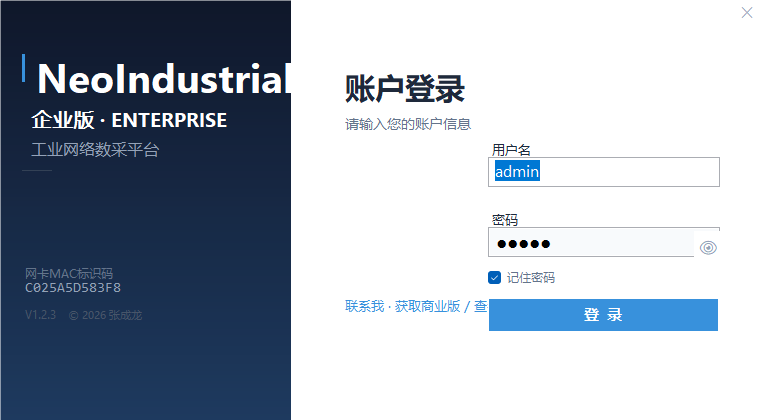
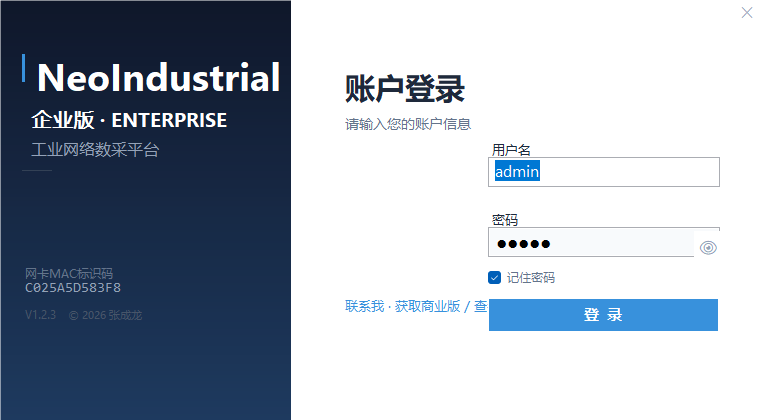
修复「联系我」页品牌名末位字母被裁 + 登录页品牌字号统一 28F；README 补联系我截图

Changed region(s): [[0.0312, 0.1238, 0.4057, 0.2476]]

diff --git a/IndustrialDataCollector/Forms/ContactForm.cs b/IndustrialDataCollector/Forms/ContactForm.cs
@@ -39,7 +39,6 @@ namespace IndustrialDataCollection.Forms
         private Panel panelRight;
         private Panel panelDecor;
         private Panel sepLine;
-        private Label lblBrand;
         private Label lblBrandSub;
         private Label lblSlogan;
         private Label lblVersion;
@@ -96,7 +95,7 @@ namespace IndustrialDataCollection.Forms
             panelLeft = new Panel
             {
                 Location = new Point(1, 1),
-                Size = new Size(280, 418),
+                Size = new Size(300, 418),
                 BackColor = Color.Transparent
             };
             panelLeft.GetType().GetMethod("SetStyle",
@@ -105,17 +104,6 @@ namespace IndustrialDataCollection.Forms
                     ControlStyles.SupportsTransparentBackColor | ControlStyles.UserPaint | ControlStyles.AllPaintingInWmPaint,
                     true });
             panelLeft.Paint += PanelLeft_Paint;
-
-            lblBrand = new Label
-            {
-                Text = "NeoIndustrial",
-                Font = new Font("Segoe UI", 30F, FontStyle.Bold),
-                ForeColor = CWhite,
-                BackColor = Color.Transparent,
-                Location = new Point(40, 52),
-                Size = new Size(220, 56),
-                TextAlign = ContentAlignment.MiddleLeft
-            };
 
             lblBrandSub = new Label
             {
@@ -178,8 +166,8 @@ namespace IndustrialDataCollection.Forms
             // === 右侧内容面板 ===
             panelRight = new Panel
             {
-                Location = new Point(281, 1),
-                Size = new Size(438, 418),
+                Location = new Point(301, 1),
+                Size = new Size(418, 418),
                 BackColor = CWhite
             };
 
@@ -189,7 +177,7 @@ namespace IndustrialDataCollection.Forms
                 Font = new Font("Segoe UI", 11F),
                 ForeColor = CCloseFore,
                 BackColor = Color.Transparent,
-                Location = new Point(403, 6),
+                Location = new Point(383, 6),
                 Size = new Size(28, 26),
                 TextAlign = ContentAlignment.MiddleCenter,
                 Cursor = Cursors.Hand
@@ -327,7 +315,6 @@ namespace IndustrialDataCollection.Forms
             btnOk.MouseLeave += (s, e) => btnOk.BackColor = CAccent;
 
             // === 组装 ===
-            panelLeft.Controls.Add(lblBrand);
             panelLeft.Controls.Add(lblBrandSub);
             panelLeft.Controls.Add(panelDecor);
             panelLeft.Controls.Add(sepLine);
@@ -385,6 +372,13 @@ namespace IndustrialDataCollection.Forms
             {
                 e.Graphics.SmoothingMode = SmoothingMode.HighQuality;
                 e.Graphics.FillRectangle(brush, panelLeft.ClientRectangle);
+
+                // 品牌名直接用 GDI+ 绘制（避免 Label 宽度不足裁掉末位字母）
+                e.Graphics.TextRenderingHint = System.Drawing.Text.TextRenderingHint.AntiAliasGridFit;
+                using (var bf = new Font("Segoe UI", 28F, FontStyle.Bold))
+                {
+                    e.Graphics.DrawString("NeoIndustrial", bf, Brushes.White, 40F, 51F);
+                }
             }
         }
 

diff --git a/IndustrialDataCollector/Forms/LoginForm.Designer.cs b/IndustrialDataCollector/Forms/LoginForm.Designer.cs
@@ -84,7 +84,7 @@ namespace IndustrialDataCollection.Forms
             // 
             this.lblAppName.AutoSize = true;
             this.lblAppName.BackColor = System.Drawing.Color.Transparent;
-            this.lblAppName.Font = new System.Drawing.Font("Segoe UI", 30F, System.Drawing.FontStyle.Bold);
+            this.lblAppName.Font = new System.Drawing.Font("Segoe UI", 28F, System.Drawing.FontStyle.Bold);
             this.lblAppName.ForeColor = System.Drawing.Color.White;
             this.lblAppName.Location = new System.Drawing.Point(27, 50);
             this.lblAppName.Name = "lblAppName";

diff --git a/README.en.md b/README.en.md
@@ -597,6 +597,8 @@ What the driver management page does:
 - **WEB Commercial Edition**: **no public download**. A license must be applied for directly from the author, priced by device/machine count.
 - **In-app shortcut**: in the desktop client, **Help → Contact Me** opens both repositories and lets you copy the licensing e-mail; the login screen also carries a “Contact Me · Get Commercial Edition” link.
 
+<img src="picture/联系我.png" width="70%" alt="Contact Me (repositories + licensing)">
+
 **To apply for a WEB Commercial Edition license, please state the following five items in your email or call:**
 
 1. **Use case** — which industry, which production line, and what problem you want to solve;

diff --git a/README.md b/README.md
@@ -623,6 +623,8 @@ GET /api/status                               # 系统状态
 - **WEB 商业版**：**不提供公开下载**，需联系作者申请授权，按机台数量计费。
 - **客户端内入口**：企业版客户端「帮助 → 联系我」可一键打开两个开源仓库、复制授权邮箱；登录页也有「联系我 · 获取商业版 / 查看开源仓库」链接。
 
+<img src="picture/联系我.png" width="70%" alt="联系我（两个开源仓库 + 商业版授权）">
+
 **申请 WEB 商业版授权时，请在邮件 / 来电中写清楚以下五项：**
 
 1. **使用场景**——用在什么行业、哪条产线、解决什么问题；
